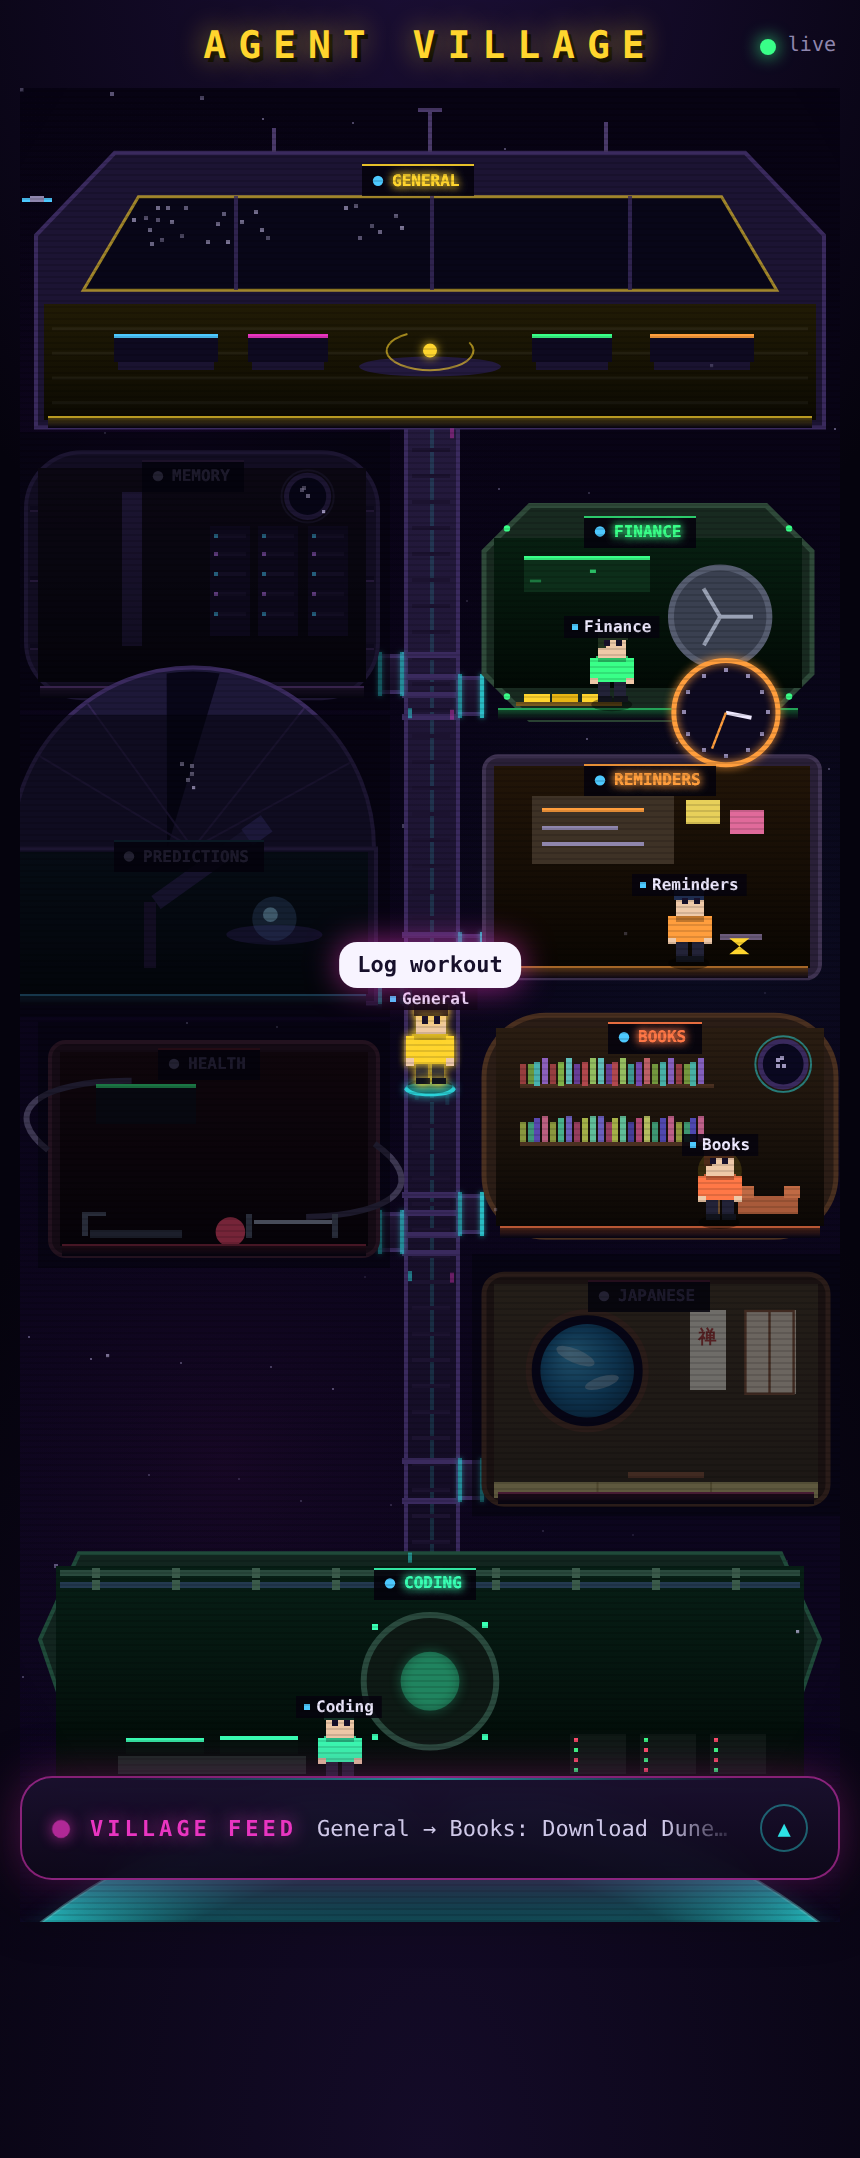
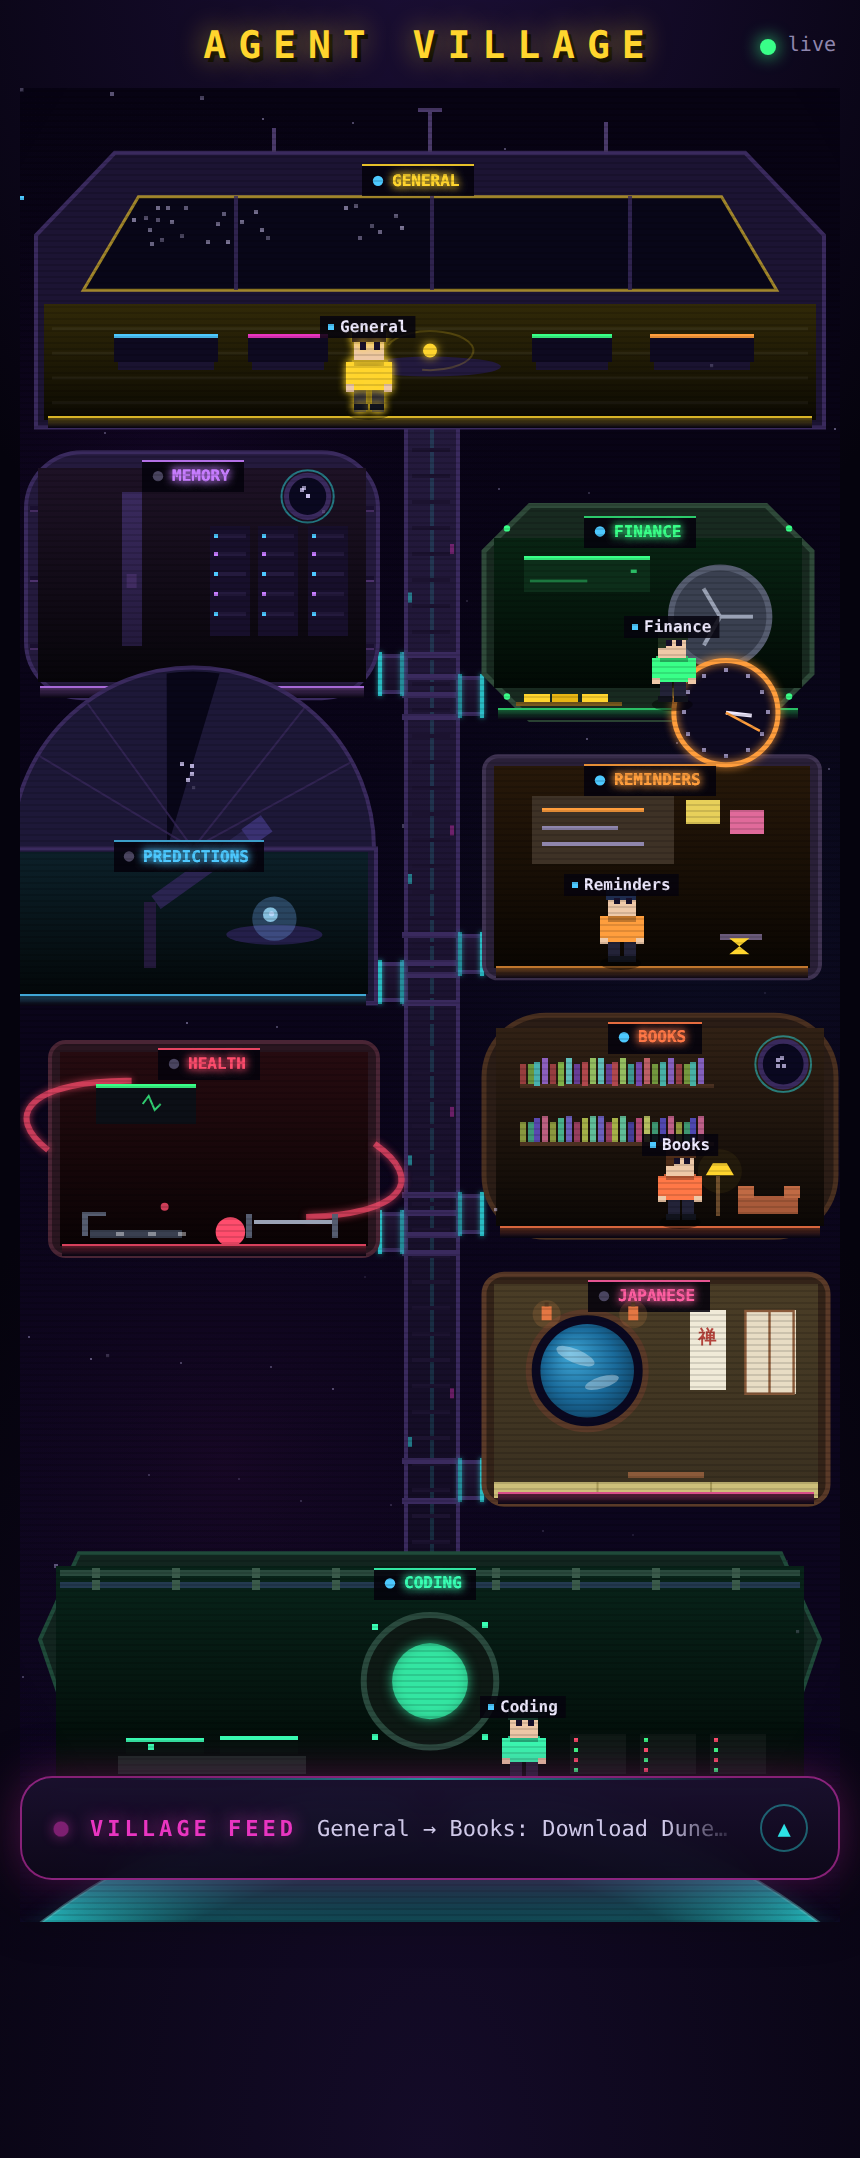
Keep all module lights on regardless of agent status
Inactive/offline rooms no longer black out — litFactor floors near full
brightness and the offline shade overlay is removed. Status is conveyed by
the sign dot, status label, and presence of the agent, not by darkness.

diff --git a/index.html b/index.html
@@ -208,7 +208,8 @@ function rgba(hex,a){const[r,g,b]=hexRGB(hex);return `rgba(${r},${g},${b},${a})`
 function neonText(ctx,s,x,y,size,color,blur){
   ctx.save();ctx.font=`800 ${size}px ui-monospace,monospace`;ctx.textAlign='center';ctx.textBaseline='middle';
   ctx.shadowColor=color;ctx.shadowBlur=blur;ctx.fillStyle=color;ctx.fillText(s,x,y);ctx.fillText(s,x,y);ctx.restore();}
-function litFactor(st){return st==='working'||st==='active'?1:st==='idle'?0.72:st==='afk'?0.5:0.14;}
+/* rooms stay lit regardless of status — status reads from the sign dot/label */
+function litFactor(st){return st==='working'||st==='active'?1:st==='idle'?0.95:st==='afk'?0.9:0.85;}
 function hash2(i,j){let h=(i*374761393+j*668265263)^(i<<7);h=(h^(h>>13))*1274126177;return ((h^(h>>16))>>>0)/4294967295;}
 function rr(ctx,x,y,w,h,r){ctx.beginPath();ctx.moveTo(x+r,y);ctx.arcTo(x+w,y,x+w,y+h,r);
   ctx.arcTo(x+w,y+h,x,y+h,r);ctx.arcTo(x,y+h,x,y,r);ctx.arcTo(x,y,x+w,y,r);ctx.closePath();}
@@ -284,7 +285,7 @@ function moduleSign(r,name,st,neon,x,y){
   neonText(bctx,label,x+sw/2+4,y+(fs+8)/2+0.5,fs,lit>0.3?neon:'#3d3752',lit>0.3?8:0);
   bctx.fillStyle=DOT_HEX[st];bctx.beginPath();bctx.arc(x+8,y+(fs+8)/2,2.6,0,7);bctx.fill();
 }
-function offlineShade(r){bctx.fillStyle='rgba(4,3,12,.55)';bctx.fillRect(r.x-6,r.y-10,r.w+12,r.h+16);}
+function offlineShade(r){/* no blackout — inactive rooms keep their lights on */}
 function floorPlate(r,neon,lit,inset){
   const fy=r.feetY+3;
   vgrad(bctx,r.x+inset,fy,r.w-2*inset,6,dim(neon,0.25+0.2*lit),'#0a0614');
